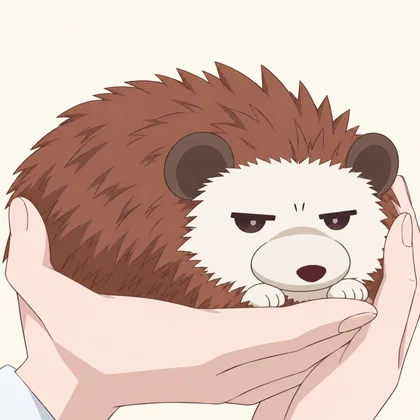
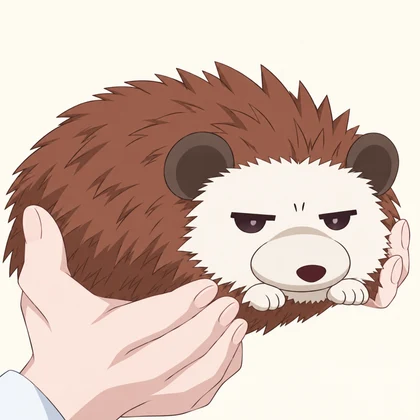
Reconstruct close-up hands from the original holding pose

diff --git a/public/images/new-game/README.md b/public/images/new-game/README.md
@@ -16,10 +16,10 @@ All assets are served locally. They are referenced only by the optional reward m
 
 ## Soujirou expression inset
 
-`soujirou-closeup.webp`: 420 × 420, 18,694 bytes. An AI-assisted close-up edited with the built-in imagegen tool on 2026-09-08. The authoritative pose/style reference was the hand region of `hifumi-soujirou.webp`; the expression reference was the previously approved avatar-based inset from commit `16cd8066`. Soujirou lies belly-down across the cupped palms, with a low brown back extending left, his broad ivory face and low oval muzzle at right, and two small forepaws resting above the near hand. The curled avatar's upright chest and pink crossed belly-like mark have been removed. His half-closed, unreceptive ご機嫌ななめ expression remains.
+`soujirou-closeup.webp`: 420 × 420, 20,176 bytes. An AI-assisted close-up edited with the built-in imagegen tool on 2026-09-08. The authoritative pose/style reference was the hand region of `hifumi-soujirou.webp`; the expression reference was the previously approved avatar-based inset from commit `16cd8066`. Soujirou lies belly-down in the supporting hands, with a low brown back extending left, his broad ivory face and low oval muzzle at right, and two small forepaws resting above the near hand. The curled avatar's upright chest and pink crossed belly-like mark have been removed. His half-closed, unreceptive ご機嫌ななめ expression remains.
 
-The owner approved this prone hedgehog. A final hands-only edit retained the approved animal and refined the two human hands, their finger joints, occlusion and cupped support. This is a fan illustration, not an official animation frame. The original full character artwork remains unchanged.
+The owner approved this prone hedgehog. The previous hands-only pass still invented an extended horizontal finger and exposed too much of both palms. This revision first inspected an 8× nearest-neighbor crop of the original hand region (x=125, y=127, width=117, height=124 in the 386 × 420 full image). The near wrist enters diagonally from lower left; its back/outer side is visible and its grouped fingers curve up-right over the near flank. The far palm and wrist are mostly hidden, leaving only a few fingertips at the right of the face. The final hands-only edit follows that geometry and removes the invented full-width horizontal hand band, while retaining the approved hedgehog. This is a fan illustration, not an official animation frame. The original full character artwork remains unchanged.
 
 Converted to WebP quality 87. The optional theme presents it in a rounded rectangular detail panel, with a solid connector to a locator around the hedgehog in her hands. The full artwork, locator and inset share one aspect-ratio scene so resizing and animation do not separate them. There are no thought-bubble dots or visible caption labels.
 
-Both exact image-edit prompts (prone pose, then human hands only) are recorded in [soujirou-pose-prompt.txt](soujirou-pose-prompt.txt).
+The exact final hand-reconstruction prompt and input roles are recorded in [soujirou-pose-prompt.txt](soujirou-pose-prompt.txt).
